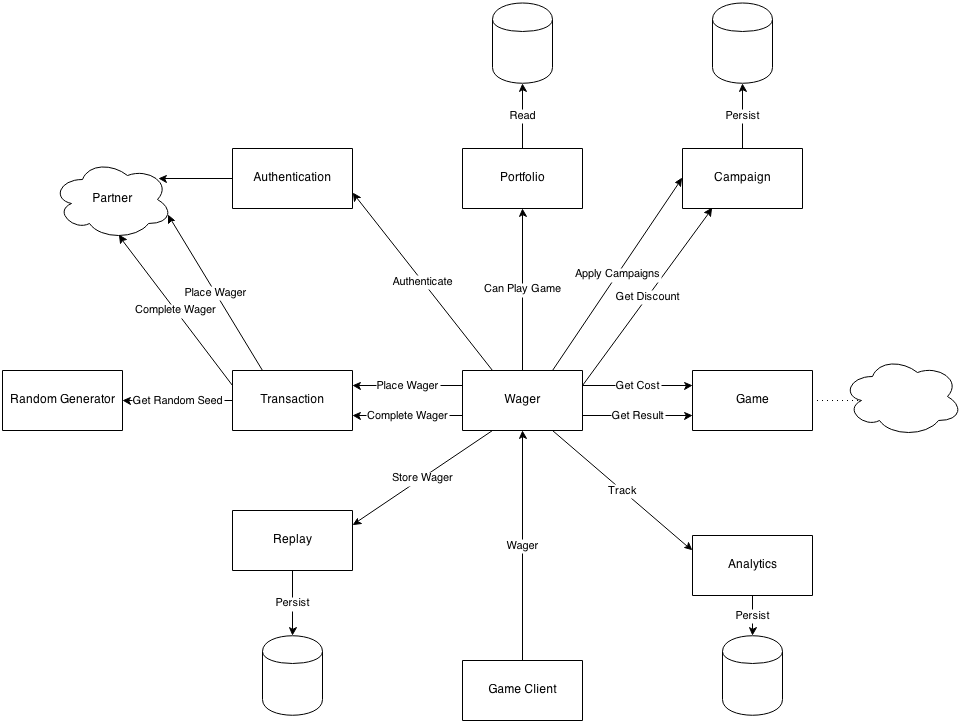
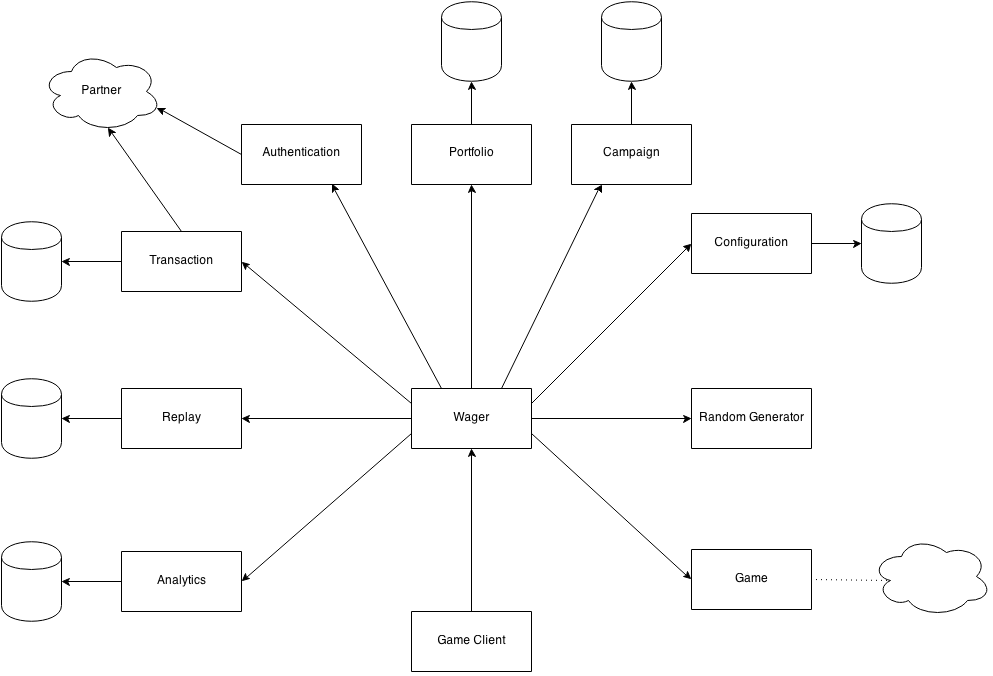
Updated the documentation

diff --git a/README.md b/README.md
@@ -4,27 +4,34 @@
 ##### Wager Service
 The wager service is the main hub. It delegates implementation to the different "sub-services".
 
+> TODO: The wager service should probably generate a request id that can be used for idempontence around the system.
+
 ##### Authentication Service
-The Authentication service is basically a proxy towards the partner integrations.
+The authentications service makes sure that the player is the player that hes saying he is.
 
 > TODO: The Authentication service talks to the partner and will need to be able to propagate data from the partner to the client side partner integration.
 
+> TODO: Should it really be the responsibility of the transaction service to propagate data from the partner or should that be something elses problem. Maybe there should be some kind of messagehub that the client can pull partner data from after an authentication?
+
+
 ##### Configuration Service
 
-> TODO: There should be a configuration service
+> TODO: There should be a configuration service. I'm not sure why this should exist but it seemed good at the time. Maybe the config service is just a front end for setting configs in the different services and that it isn't really something that is part of the wager flow. What is the difference between this and the backoffice service?
 
 ##### Backoffice Service
 
 > TODO: There should be a configuration service. The backoffice servivce should probably be a lot of different services that can pull data out of different databases etc.
 
 ##### Game Service
-The Game service is actually on game service per game implementation. It must implement an API that is common for allthe games. That API is basically requiring that the game can say how much a wager request will cost and how much it will reward.
+The Game service is actually one game service per game implementation. It must implement an API that is common for all the games. That API is basically requiring that the game can say how much a wager request will cost and how much it will reward.
 The game service doesn't have a notion of money or currency. It is just given a seed and a game data.
 From that it should calculate the cost and the result in an integer.
 It will also return a map of metadata.
-Things in the metadata could for example be `number_of_cherries` or `bonus_spins_won`.
+Things in the metadata could for example be `number_of_cherries: 5` or `bonus_spins_won: 2`.
 That data can then be used by the Analytics service to be able to mine behavioural data and by the Campaign service to give extra bonuses that is outside the game.
 The Game service can delegate to other subservices or implement persistance with a database. That is up to the game entirely.
+
+> TODO: How to handle bonus games. Is that just another game that is free to play if you have a ticket or something? Can the partner intergrations usually handle zero sum bets? Will that be another transaction in that case? Is this just something that makes everything overly complex? Should it have any relation to the base game where it was won? Maybe it should be that at least for the reporting and so that it is possible to see the payout percentage and so on. One good thing could be that it would be possible to share bonus games between different base games.
 
 ##### Campaign Service
 The Campaign services responsibility is to keep track of running campaign. It has the ability to give discounts and bonuses on wagers. A discount could be given when there is free games campaigns. A bonus can be given for example when the user spins her 1000:nd spin.
@@ -32,55 +39,35 @@ The Campaign services responsibility is to keep track of running campaign. It ha
 > TODO: The campaign service should probably be a lot of different smaller services. One for each type of campaign.
 
 ##### Portfolio Service
-The Portfolio service keeps track of the partner and or users game portfolio. Some games can be activated only for a subset of users, partners or devices of thereof.
+The Portfolio service keeps track of the partners, users and devices game portfolio. Some games can be activated only for a subset of users, partners or devices of thereof.
+> TODO: Should it also generate urls to the launching page? Should it take care of partner specific urls and modify them and forward to our url? Stuff like gamecode mapping and so on?
 
 ##### Analytics Service
 The Analytics service gather data both about the behaviour of different users and performance of the system.
 It can be implemented as a proxy for other 3:rd party products such as Google Analytics and New Relic.
 
-> TODO: Is it a good idea to use a graph database like neo4j for this instead of using a 3:rd party service?
+> TODO: Is it a good idea to use a graph database like neo4j for this instead of using a 3:rd party service like Google Analytics?
 
 ##### Transaction Service
-The transaction service has two responsibilities (TODO: should it? Maybe that shold be a separate step). First communicate with the partner integration and create and close transactions. It also gets a random seed for the transaction from the Random Generator service.
-That random seed will be used to calculate the result by the Game service
-
-> TODO: This must be able to propagate data from the partner to the front end partner integration.
+The transaction service takes care of the transaction and is the one that is doing reconciliation.
+It should be called early on in the process.
 
 ##### Random Generator Service
 The Random Generator service only responisility is to provide evenly distributed random numbers.
 
 > TODO: Maybe the game should talk to the random number generator service directly. But we want as many services as possible to be idempotent and stateless. One way could be that we get a seed that the game then can use in the rest of the random calls. That seed needs to be really big I guess.
+If the games and so on can request the size of the random number then the random number generator can generate that in a go. Is that ok for regulation? Will it be possible to get enough entropy in that or do we need background cycling in while the number is generated?
 
 ##### Replay Service
 The replay service stores replays of wagers. It does this basically by storing the full request and response by the client so that can be replayed later. It also keeps track of whitch wagers results that has been seen by the user.
 The Replay service privides an interface for the game client to list and get old wagers
 
-> TODO: There should also be a way to report the progress of the replay. So when the game is running on the client it can store what boxes that was opened in a pick and click game and what freespins that has already been seen etc.
+> TODO: There should also be a way to report the progress of the replay. So when the game is running on the client it can store what boxes that was opened in a pick and click game and what freespins that has already been seen etc. That data is really only for show so that can be stored on the side. It should not have anything to do with the outcome.
 
 
 ###Doing a Wager
 
-Wager is the only publicly exposed service.
-It will in turn start a chain of requests to subservices.
-The wager service doesn't really do anythin other than orchestrate a wager.
-
-1. `Game client` sends `Wager` to the `Wager service`
-2. The `Wager service` sends in paralell
-	* `Authenticate` to the `Authentication service` witch in turn contacts the `Partner` to verify the credentials
-	* `Get Cost` to the `Game service` to get the cost of the wager
-	* `Get Discounts` to the `Campagin service` to know if there is any discounts for the wager (e.g. free game campaigns). The `Campaign service` may or may not read and write to a database.
-	* `Can play game` to the `Portfolio service` to know if the game is available for the user/partner
-2. The `Wager service` sends `Place Wager` to the `Transaction Service` witch in turn creates a transaction with the partner. The `Transaction service` also gets a random seed from the `Random Generator service` that will be used for the game result later.
-3. The `Wager service` sends `Get Result` to the `Game service` to get the full wager result including bonus games.
-4. The `Wager service` sends `Apply Campaigns` to the `Campaign service`
-5. The `Wager service` sends `Complete Wager` to the `Transaction service` that in turn completes the wager with the `Partner`
-6. The `Wager service` sends `Store Wager` to the `Replay service` that persists all the data.
-
-At all the different stages events can be tracked in the `Analytics service`.
-
-The `Game service` can be any implementation of a game. e.g. `Zeus`, `Amazon Queen` etc.
-
-All services can be sharded or clustered behind a load balancer.
+> TODO: Describe this now when everything has changed
 	
 
 
@@ -90,9 +77,12 @@ All services can be sharded or clustered behind a load balancer.
 
 The game client does one request to the wager service.
 The wager service will in turn proxy the information to the sub-services in the correct order.
-The `arbitrary` field is for partner specific data in both the request and the reponse.
+The `partner` field is for partner specific data in both the request and the reponse.
 The `campaigns` field is storing informations for campaigns the wager should participate in.
 The `game` field will be proxied to the `Game service`.
+
+> TODO: How do we handle bonus games? Should there be something like tokens that can be used to play bonus games as a separate entity in the graph? Do We put it as a separate service but one that is called directly by the game and then include the response in the response of the wager? It can also be something separate. See other thoughts spread around this document.
+
 ######REQUEST
 ```
 {
@@ -117,7 +107,7 @@ The `game` field will be proxied to the `Game service`.
       "...": "..."
     }
   },
-  "arbitrary": {
+  "partner": {
     "bwin": {
       "ticket": "ABCD1234"
     }
@@ -130,7 +120,8 @@ The `game` field will be proxied to the `Game service`.
   "bet": 12345,
   "win": 12345,
   "balance": 12345,
-  "currency" : "EUR"
+  "currency" : "EUR",
+  "transaction_id": "ABCDEFG1234567"
   "game": {
     "stoppositions": [1,2,3,4,5],
     "bonus_freespins": [
@@ -144,7 +135,7 @@ The `game` field will be proxied to the `Game service`.
       "...": "..."
     }
   },
-  "arbitrary": {
+  "partner": {
     "bwin": {
       "transationid": "12345",
       "...": "..."
@@ -158,7 +149,6 @@ The `game` field will be proxied to the `Game service`.
 ######REQUEST
 ```
 {
-  "request": "abcd1234",
   "partner": "somepartner",
   "account": "ABCDEF1234",
   "ticket": "ABCDEF1234",
@@ -177,7 +167,6 @@ The `game` field will be proxied to the `Game service`.
 ######REQUEST
 ```
 {
-  "request": "abcd1234",
   "partner": "somepartner",
   "game": "somegame",
   "currency": "EUR",
@@ -193,8 +182,13 @@ The `game` field will be proxied to the `Game service`.
 
 ###GameService.getCost()
 
-TODO: Should the game service also respond with a hash of the request? That can then be compared to the has returned by the getResult() function. That way the Wager service could verify that it is the same wager that the game service is calculating the cost and the result of. This would minimy the risk of the system tampering with results. The transaction service could also generate a hash that would be included in the game services hash.
+> TODO: Should the game service also respond with a hash of the request? That can then be compared to the has returned by the getResult() function. That way the Wager service could verify that it is the same wager that the game service is calculating the cost and the result of. This would minimy the risk of the system tampering with results. The transaction service could also generate a hash that would be included in the game services hash.
 I'm looking for a way to "commit" the wager without knowing the result when the cost is calculated.
+
+> TODO: One way of doing it is that the cost should also contain required bits of entropy. That can then be taken from the random generator.
+
+> TODO: Some campaigns can require to know the percentage of max bet. Should that be a field in the response or is that instead in the meta data field.
+
 
 ######REQUEST
 ```
@@ -206,7 +200,8 @@ I'm looking for a way to "commit" the wager without knowing the result when the 
 ######RESPONSE
 ```
 {
-  "cost": 12345
+  "cost": 12345,
+  "required_entropy_bits": 512
 }
 ```
 
@@ -216,13 +211,15 @@ I'm looking for a way to "commit" the wager without knowing the result when the 
 ```
 {
   "request": "abcd1234",
+  "random": "ABCDEFGHIJKLMNOPQRSTUVXYS0123456789",
   "data": "{game data ...}"
 }
 ```
 ######RESPONSE
 ```
 {
-  "result": 12345
+  "result": 12345,
+  "data": "{game data ...}"
   "metadata": {metadata...}
 }
 ```
@@ -232,17 +229,23 @@ I'm looking for a way to "commit" the wager without knowing the result when the 
 ######REQUEST
 ```
 {
-  "request": "abcd1234"
+  "request": "abcd1234",
+  "entropy_bits": 512
 }
 ```
 ######RESPONSE
 ```
 {
- "seed": "123456789"
+ "random": "ABCDEFGHIJKLMNOPQRSTUVXYS0123456789"
 }
 ```
 
 ###CampaignService.applyCampaigns()
+
+> TODO: Does this also need a random. Probably, at least in the case for jackpots etc. If that is the case then we'll need the request for random bits as well and that makes it another jump. Probably that will not work as good since the campaign service might not be abe to be idempotent. I don't know.
+
+> TODO: The names are not good. change them to something better
+
 
 ######REQUEST
 ```
@@ -327,6 +330,9 @@ I'm looking for a way to "commit" the wager without knowing the result when the 
 }
 ```
 ######RESPONSE
+
+> TODO: Should this really carry the balance or should that be a separate request? This is just cramming data that is not part of this really.
+
 ```
 {
   "balance": 12345,
@@ -345,6 +351,8 @@ I'm looking for a way to "commit" the wager without knowing the result when the 
   "client_response": "{client response ...}"
 }
 ```
+> TODO: Do we get back some kind of ID here that the client can use to send progress data to?
+
 ######RESPONSE
 ```
 {
